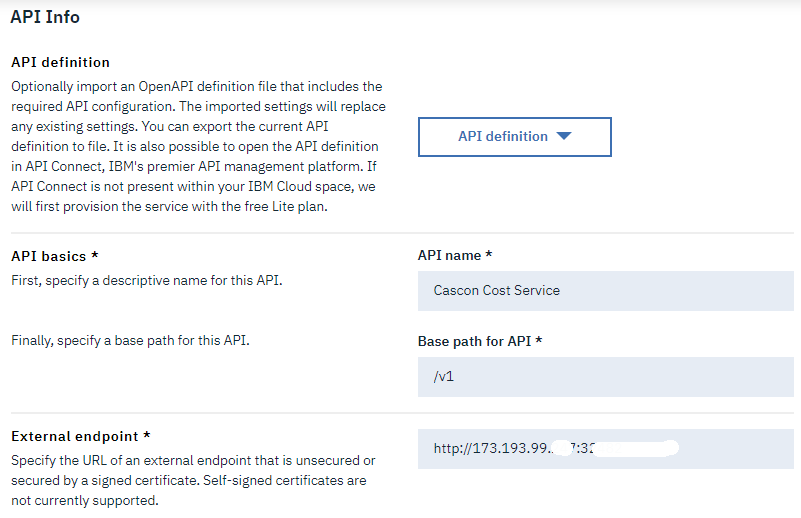
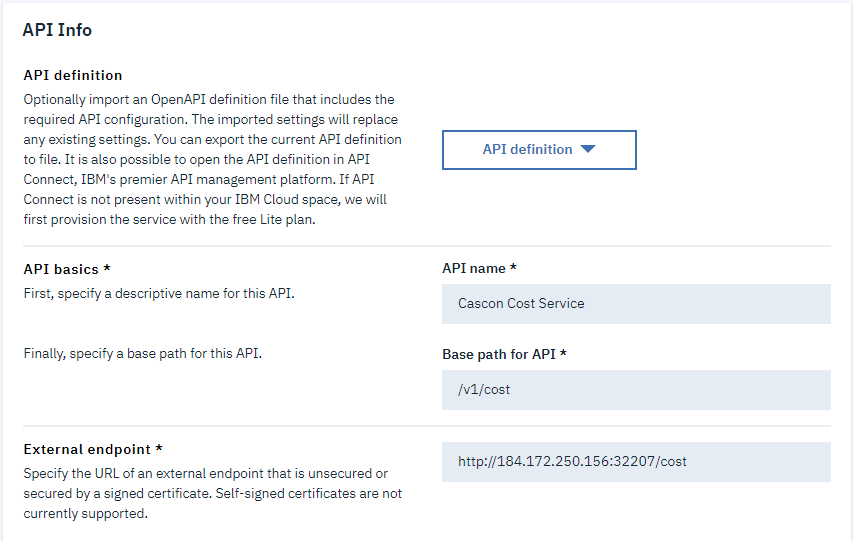
Updates to doc

diff --git a/04-api-management/Readme.md b/04-api-management/Readme.md
@@ -58,7 +58,7 @@ Sample output:
 $ curl http://173.197.99.247:32482
   % Total    % Received % Xferd  Average Speed   Time    Time     Time  Current
                                  Dload  Upload   Total   Spent    Left  Speed
-100   166  100   166    0     0   1185      0 --:--:-- --:--:-- --:--:--  1185Private MonthlyCost Application<br/>I am hostname: dep-monthlycost-69fc59959c-fbg8w<br/>Your app is up and running in a cluster!<br/>No Accounts<br/>No Providers<br/>
+100    27  100    27    0     0    245      0 --:--:-- --:--:-- --:--:--   245Found. Redirecting to /cost
 
 ```
 
@@ -76,24 +76,26 @@ In your IBM Cloud account,
 
 The page that comes up allows you to create an API proxy. The simplest way to achive this is by filling in the information for
 - API Name, this is just a user firendly name to identify the API
-- Base path for API, this is what you want. Often a version is used, for example `/v1`
+- Base path for API, this is what you want. Often a version is used, for example `/v1` followed by the name of the endpoint `/cost` for a resulting: `/v1/cost`
 - External endpoint, this will be the public IP of your kubernetes cluster with the port used by your NodePort
 ![](images/04-API-Info.png)
+
+**Note**: that our apps currently redirect the `/` to `/cost` by default. To avoid this redirect we should specify the end point directly
 
 With those pieces of information filled in, scroll to the bottom and click the blue *Create* button.
 
 If you go on the *Summary* tab, you will see the Route you have just created.
 ![](images/05-Summary.png)
 
-In our case the route is `https://1883da9e.us-south.apiconnect.appdomain.cloud/v1`
+In our case the route is `https://1883da9e.us-south.apiconnect.appdomain.cloud/v1/cost`
 
 You should now be able to test the new end point:
-```
-curl https://1883da9e.us-south.apiconnect.appdomain.cloud/v1
+```bash
+curl https://1883da9e.us-south.apiconnect.appdomain.cloud/v1/cost
 ```
 
-```
-$ curl https://1883da9e.us-south.apiconnect.appdomain.cloud/v1
+```bash
+$ curl https://1883da9e.us-south.apiconnect.appdomain.cloud/v1/cost
   % Total    % Received % Xferd  Average Speed   Time    Time     Time  Current
                                  Dload  Upload   Total   Spent    Left  Speed
 100   166  100   166    0     0    322      0 --:--:-- --:--:-- --:--:--   322Private MonthlyCost Application<br/>I am hostname: dep-monthlycost-69fc59959c-fbg8w<br/>Your app is up and running in a cluster!<br/>No Accounts<br/>No Providers<br/>
@@ -109,4 +111,6 @@ If you run the following command
 
 You can still access the API.
 
-We need to secure cluster network access, which we will do in *04b-securing-with-calico*
+## Next step
+
+We need to secure cluster network access, which we will do in [Securing your API with Calico](04b-securing-with-calico.md)

diff --git a/04-api-management/04e-configuring-other-end-points.md b/04-api-management/04e-configuring-other-end-points.md
@@ -1,1 +1,68 @@
 # Configuring our different end points differently
+
+So far we have worked with a single service, the *cost* service.
+
+We have 2 other services that we can also configure, the *account* and the *provider* services.
+
+## Configuring the account and provider services
+
+For both of these you will want to repeat the steps from the [First part of the lab](Readme.md), specifically the section **### Creating your first API proxy**. Of course you will need to adjust the endpoints accordingly.
+
+You will then also have to update your `whitelist.yaml` file to include the additional 2 ports required for these services.
+
+Your `whitelist.yaml` should look like:
+```yaml
+ apiVersion: projectcalico.org/v3
+ kind: GlobalNetworkPolicy
+ metadata:
+   name: whitelist
+ spec:
+   applyOnForward: true
+   preDNAT: true
+   ingress:
+   - action: Allow
+     destination:
+       nets:
+       - <cluster_public_ip>/32
+       ports:
+       - <port for cost service>
+       - <port for account service>
+       - <port for provider service>
+     protocol: TCP
+     source:
+       nets:
+       - 169.46.64.77/32
+       - 169.48.97.212/32
+       - 169.48.246.130/32
+   selector: ibm.role=='worker_public'
+   order: 500
+   types:
+   - Ingress
+```
+
+You should now be able to test the new end points:
+```bash
+curl https://1883da9e.us-south.apiconnect.appdomain.cloud/v1/account
+curl https://1883da9e.us-south.apiconnect.appdomain.cloud/v1/provider
+```
+
+If you provide some additional information on the path of the url you will receive specific information:
+```bash
+$ curl https://1883da9d.us-south.apiconnect.appdomain.cloud/v1/account/123
+  % Total    % Received % Xferd  Average Speed   Time    Time     Time  Current
+                                 Dload  Upload   Total   Spent    Left  Speed
+100   100  100   100    0     0    163      0 --:--:-- --:--:-- --:--:--   163{"account_id":"123","name":"Mary Walters","address":"819 Walters Ave","providers":["bell","rogers"]}
+
+$ curl https://1883da9d.us-south.apiconnect.appdomain.cloud/v1/provider/bell
+  % Total    % Received % Xferd  Average Speed   Time    Time     Time  Current
+                                 Dload  Upload   Total   Spent    Left  Speed
+100    44  100    44    0     0    100      0 --:--:-- --:--:-- --:--:--   100{"provider_id":"bell","cost":15.99,"term":2}
+
+```
+
+## Next level of configuration
+
+Here, in addition to being able to add an API Key as we did in the cost service, we can experiment with configuring
+- Using the same API Key
+- Having a different Rate Limit
+- Using API Keys and Secret: https://cloud.ibm.com/docs/services/api-management?topic=api-management-keys_secrets

diff --git a/04-api-management/04d-improving-apim-security.md b/04-api-management/04d-improving-apim-security.md
@@ -14,7 +14,7 @@ Now that our API is accessible via the API Management, we can start enabling som
     - Parameter name of API key: X-IBM-Client-Id
 - Scroll to the bottom and click *Save*
 
-If you re-run `curl https://1883da9d.us-south.apiconnect.appdomain.cloud/v1` you will now get an error:
+If you re-run `curl https://1883da9d.us-south.apiconnect.appdomain.cloud/v1/cost` you will now get an error:
 ```json
 {"status":401,"message":"Error: Unauthorized"}
 ```
@@ -39,11 +39,11 @@ You now have an API key that you can use. As per the configurations selected in 
 
 The curl command would look something like: 
 
-`curl https://1883da9e.us-south.apiconnect.appdomain.cloud/v1 -H "X-IBM-Client-Id: <API_KEY>"`
+`curl https://1883da9e.us-south.apiconnect.appdomain.cloud/v1/cost -H "X-IBM-Client-Id: <API_KEY>"`
 
 Sample output
 ```
-$ curl https://1883da9e.us-south.apiconnect.appdomain.cloud/v1 -H "X-IBM-Client-Id: 74259d6f-20a8-4e0a-ac16-12d96b9b36d2"
+$ curl https://1883da9e.us-south.apiconnect.appdomain.cloud/v1/cost -H "X-IBM-Client-Id: 74259d6f-20a8-4e0a-ac16-12d96b9b36d2"
   % Total    % Received % Xferd  Average Speed   Time    Time     Time  Current
                                  Dload  Upload   Total   Spent    Left  Speed
 100   166  100   166    0     0    272      0 --:--:-- --:--:-- --:--:--   272Private MonthlyCost Application<br/>I am hostname: dep-monthlycost-69fc59959c-fbg8w<br/>Your app is up and running in a cluster!<br/>No Accounts<br/>No Providers<br/>
@@ -84,4 +84,8 @@ it will work for the first 5 calls, but will respond with a
 error once you have exceeded the number of calls in that particular minute.
 
 Of course this configuration is mostly for demonstration purposes, and you would want to configure it to your specific requirements.
+
+## Next step
+
+We can now continue with [Configuring the other end points](04e-configuring-other-end-points.md)
 

diff --git a/04-api-management/04b-securing-with-calico.md b/04-api-management/04b-securing-with-calico.md
@@ -167,3 +167,7 @@ If you need help finding the IP addresses for API Management, refer to this docu
 ## Removing our own IP from the configuration
 
 Now that we have enabled the IPs for the API Management, you should remove your own IP from the whitelist so that all traffic can only come through the API Management link.
+
+## Next step
+
+Next we need to improve our API Management Security in [Improving the API Management Security](04d-improving-apim-security.md)
